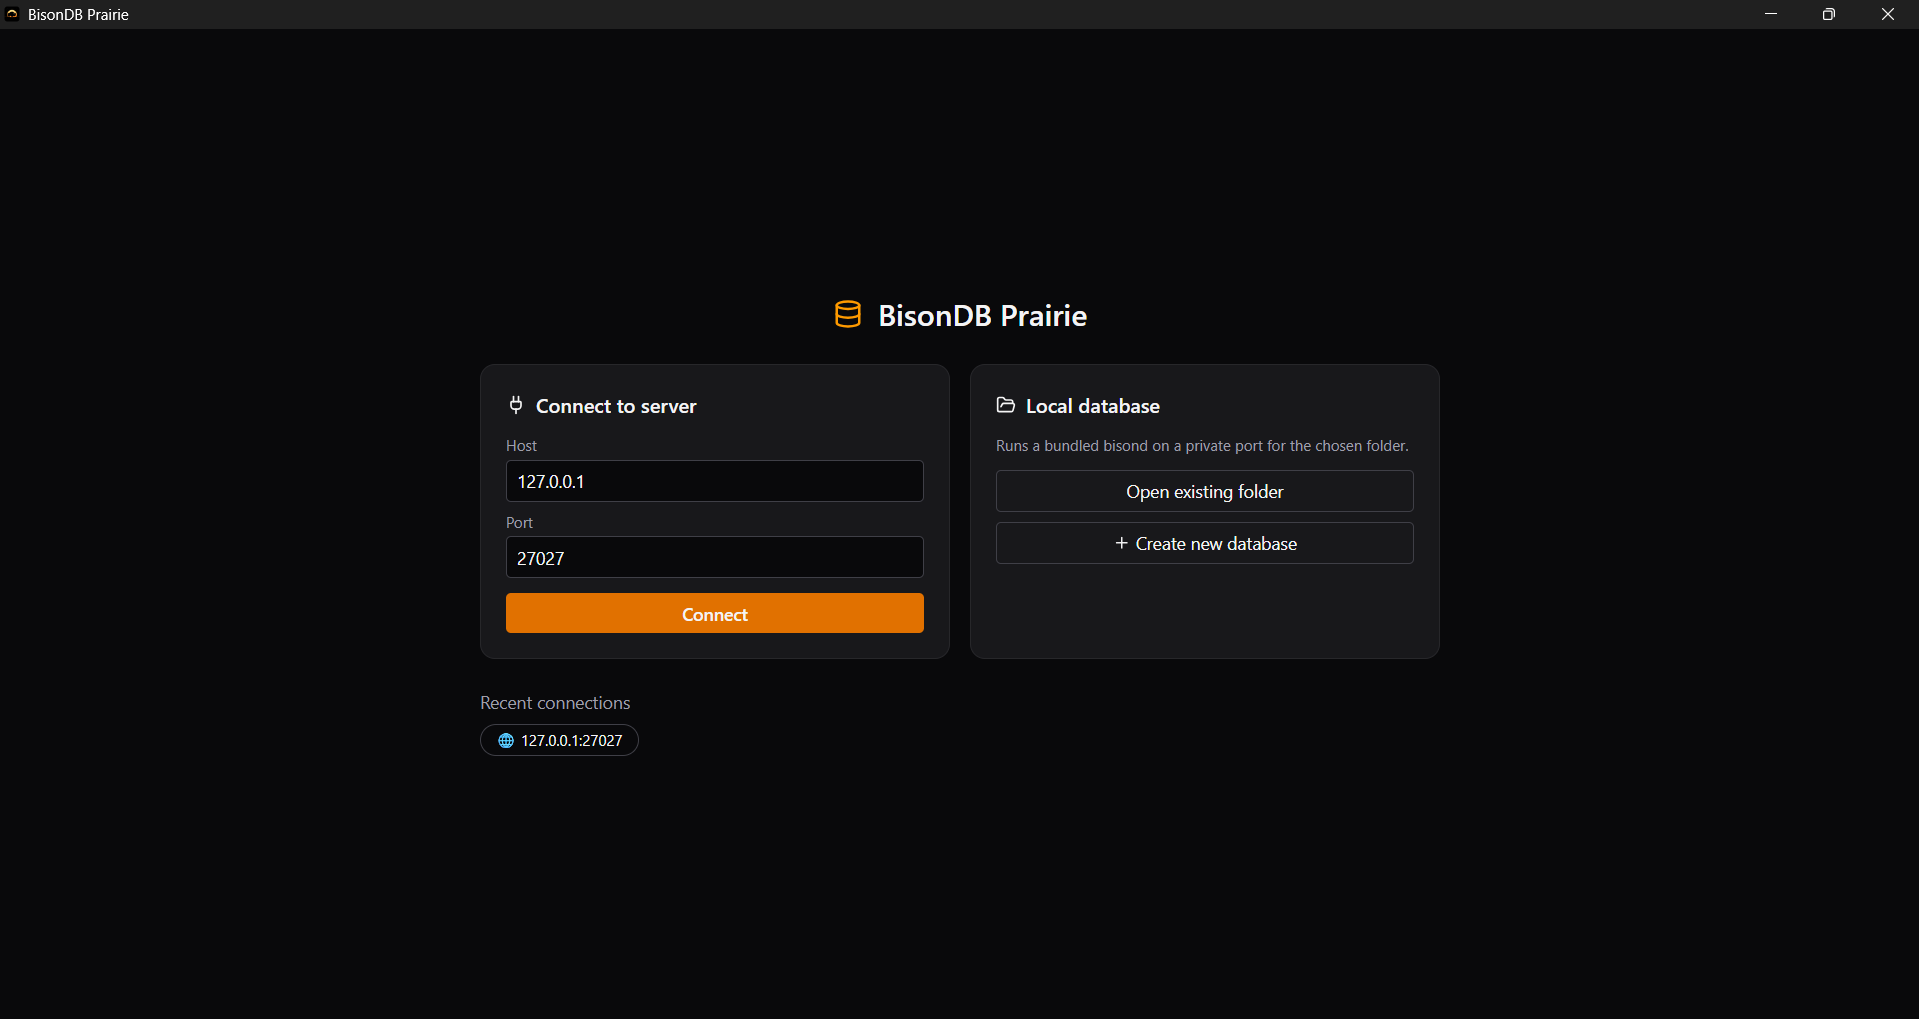
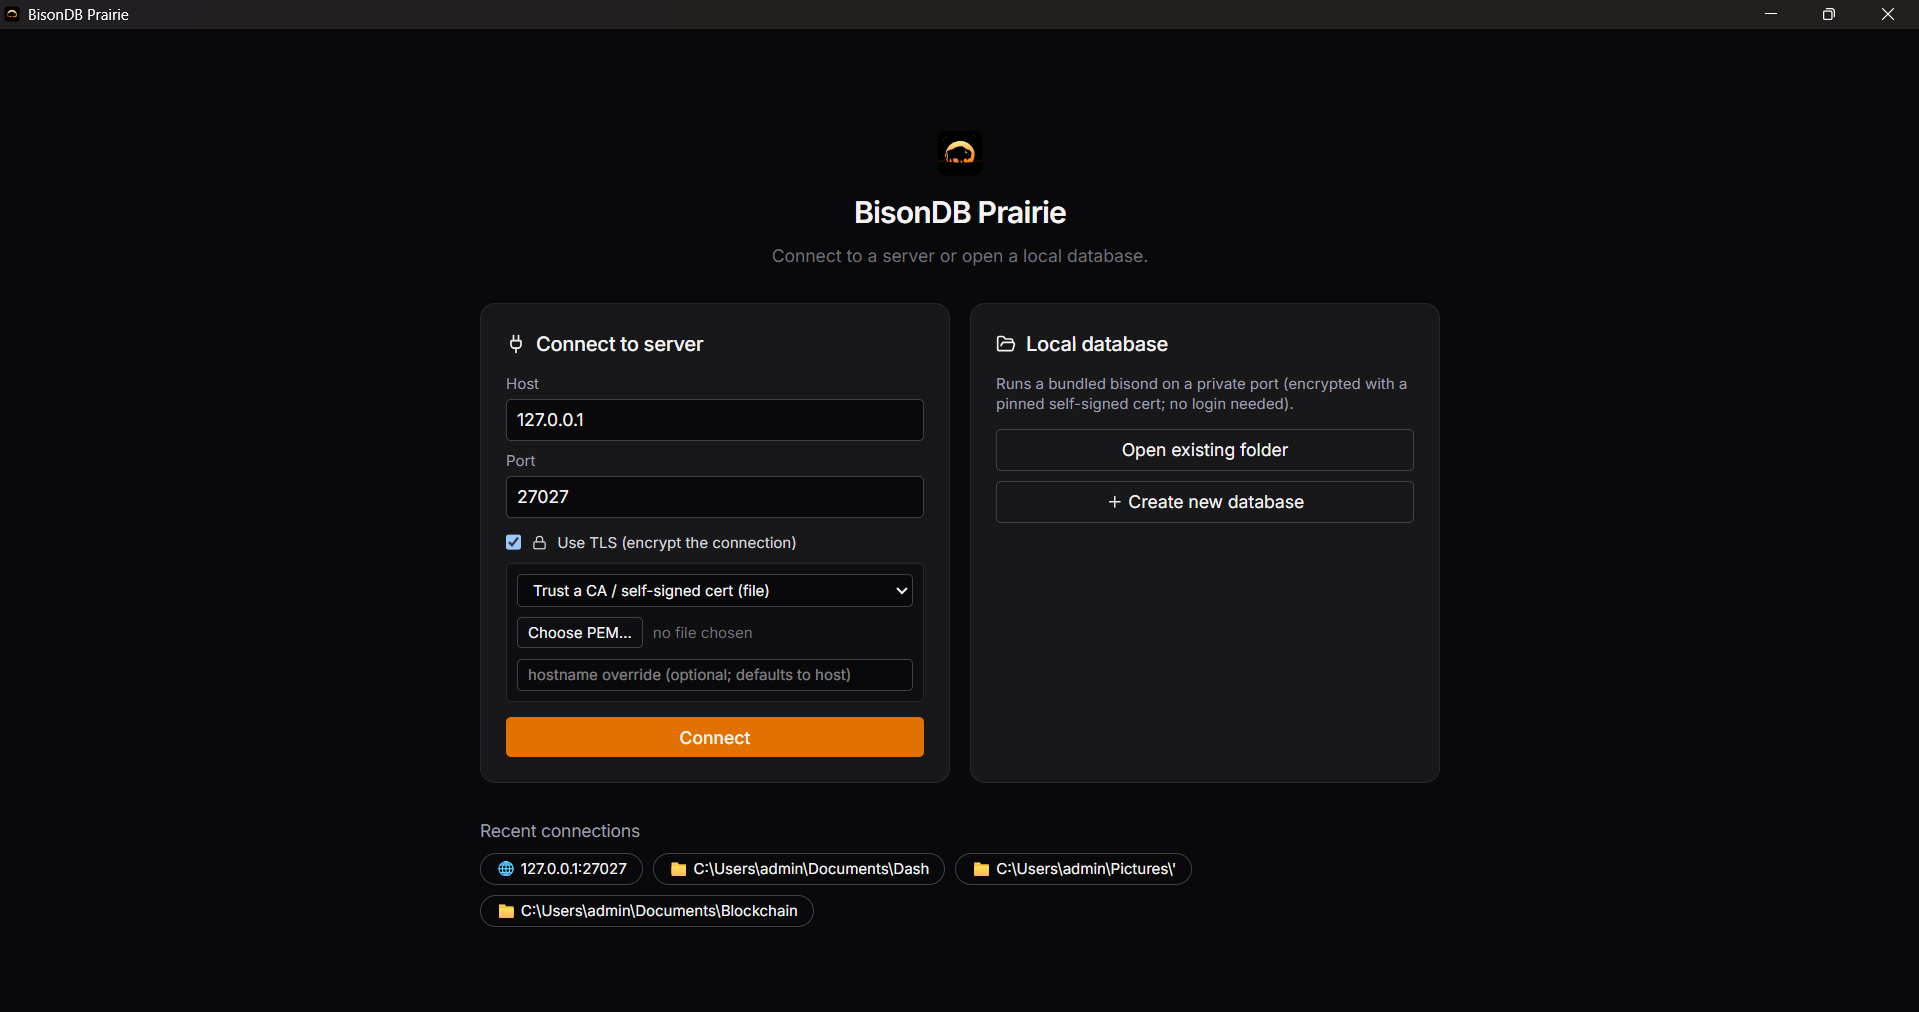
@ docs(prairie): update connection screenshot to show the TLS options
The old connection-screen shot predated TLS. Replace it with the current
screen (Use TLS + verification-mode dropdown + cert picker) and note that in
the caption.
@

diff --git a/guide/prairie.md b/guide/prairie.md
@@ -11,7 +11,7 @@ or [build it from source](/build/prairie).
 
 ## Connecting
 
-![Prairie connection screen](/screenshots/prairie-connection.png)
+![Prairie connection screen with TLS options expanded](/screenshots/prairie-connection.png)
 
 Two paths from the connection screen:
 
